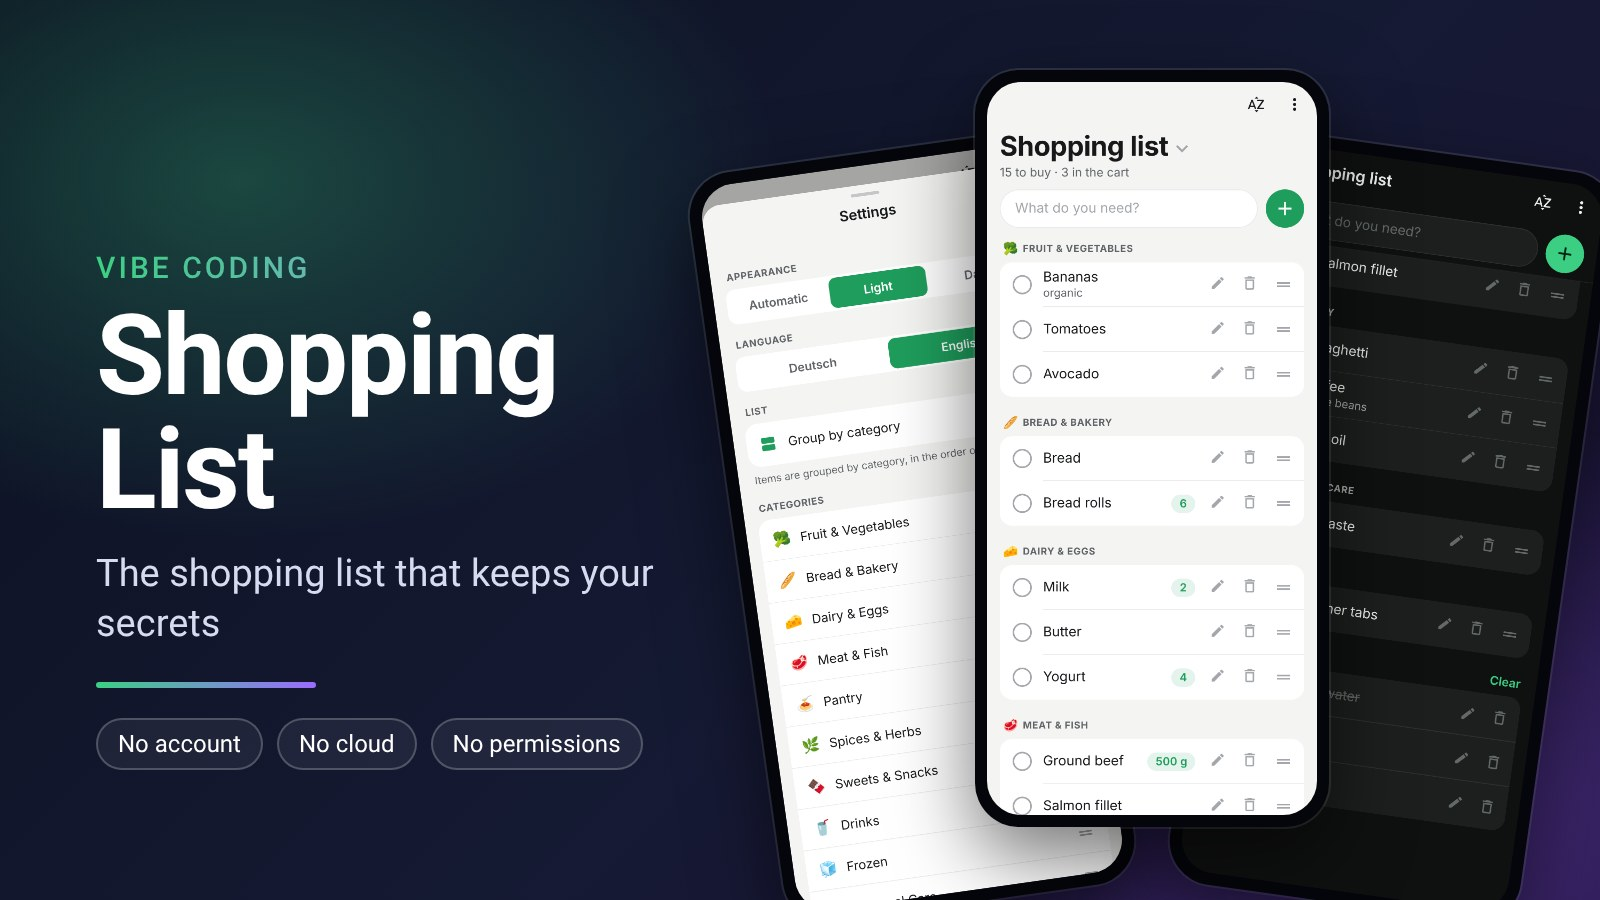
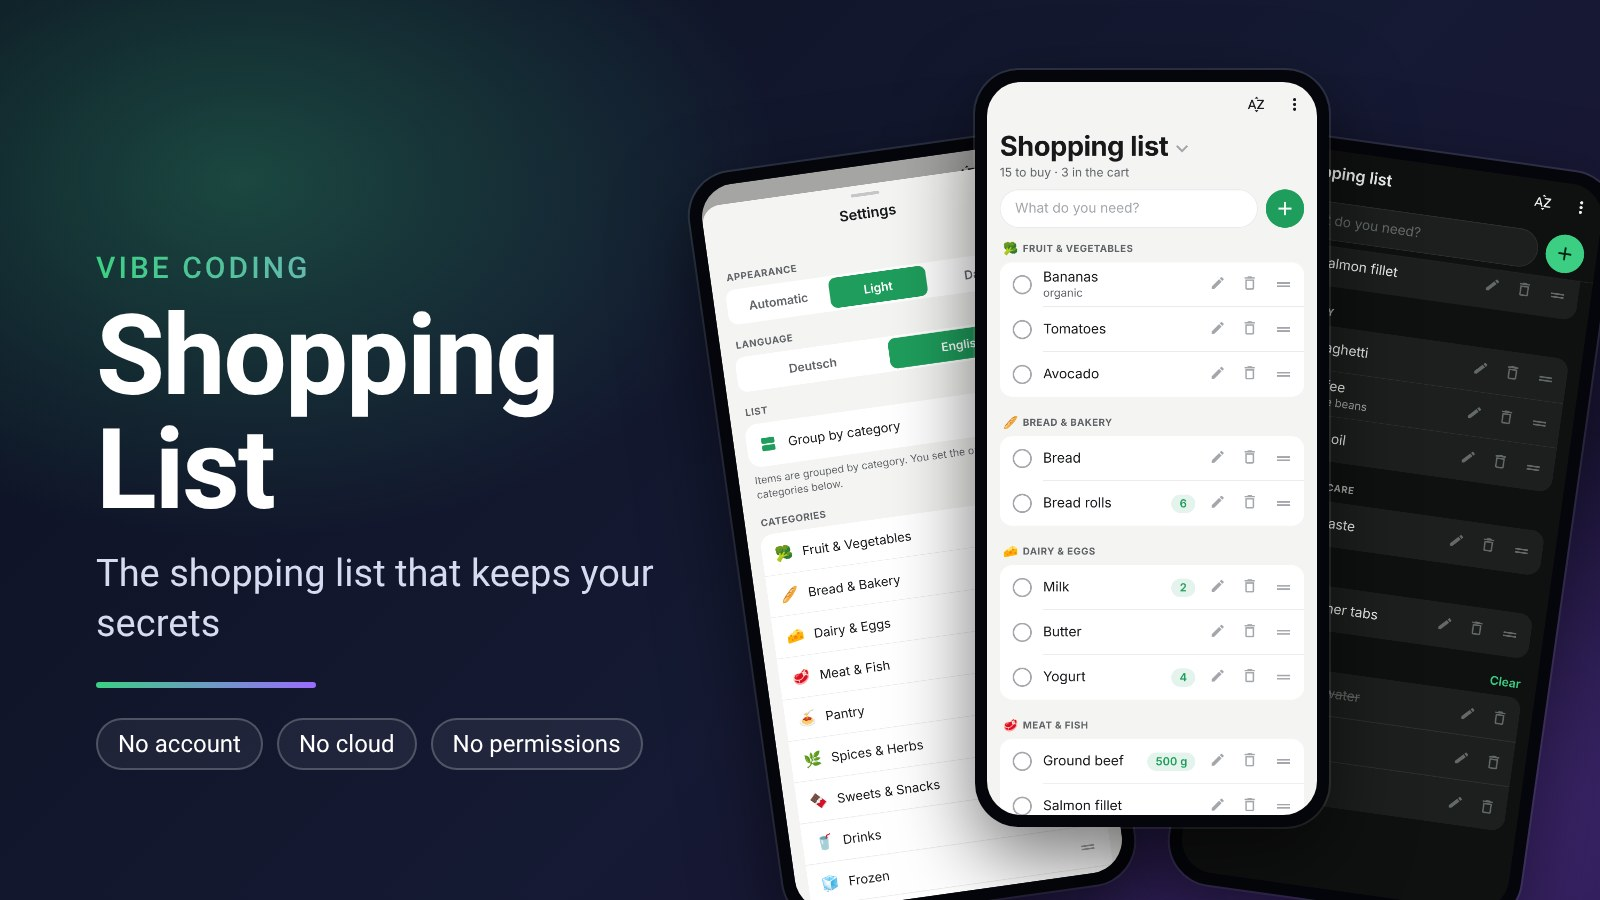
Release 1.3.3: clearer settings texts and new screenshots
- Category texts in the settings no longer refer to the store layout
- Footer now reads "© Aaron Kreis · aaron.de"
- Removed the backup explanation below "Delete all data"
- Updated banner and screenshots in the README

Changed region(s): [[0.4688, 0.5289, 0.5938, 0.9956], [0.5625, 0.9956, 0.5938, 1.0], [0.5625, 0.4978, 0.5938, 0.5289]]

diff --git a/src/ui/i18n.ts b/src/ui/i18n.ts
@@ -77,23 +77,21 @@ const de = {
   language: 'SPRACHE',
   list: 'LISTE',
   groupByCategory: 'Nach Kategorien ordnen',
-  groupedOn: 'Einträge stehen nach Kategorien in der Reihenfolge deines Ladens.',
+  groupedOn: 'Einträge stehen nach Kategorien geordnet. Die Reihenfolge der Kategorien legst du darunter fest.',
   groupedOff:
     'Einträge stehen untereinander, ohne Kategorien. Die Kategorien merkt sich die App trotzdem, beim Einschalten ist alles wieder einsortiert.',
   categories: 'KATEGORIEN',
   newCategory: 'Neue Kategorie',
-  categoriesFoot: 'Antippen zum Umbenennen oder Löschen. Am Griff ziehen, so wie du durch deinen Laden gehst.',
+  categoriesFoot: 'Antippen zum Umbenennen oder Löschen. Am Griff ziehen, um die Reihenfolge zu ändern.',
   reset: 'Zurücksetzen',
   data: 'DATEN',
   saveBackup: 'Sicherung speichern',
   importBackup: 'Sicherung einspielen',
   learned: 'Gelernte Vorschläge',
   deleteAllData: 'Alle Daten löschen',
-  backupFoot:
-    'Eine Sicherung ist eine Datei mit deinen Listen, Kategorien und allem Gelernten. Beim Einspielen wird zusammengeführt, nichts geht verloren.',
   appName: 'Shopping List',
   about: 'Kein Konto, keine Cloud.\nDeine Daten bleiben auf diesem Handy.',
-  madeBy: 'Gemacht von Aaron Kreis ·',
+  madeBy: '© Aaron Kreis ·',
   openSource: 'Open Source unter MIT Lizenz',
   backToSettings: 'Zurück zu den Einstellungen',
   editCategory: 'Kategorie bearbeiten',
@@ -207,20 +205,18 @@ const en: Strings = {
   language: 'LANGUAGE',
   list: 'LIST',
   groupByCategory: 'Group by category',
-  groupedOn: 'Items are grouped by category, in the order of your store.',
+  groupedOn: 'Items are grouped by category. You set the order of the categories below.',
   groupedOff:
     'Items are shown in one list, without categories. The app still remembers the categories, so everything is sorted again when you switch this back on.',
   categories: 'CATEGORIES',
   newCategory: 'New category',
-  categoriesFoot: 'Tap to rename or delete. Drag the handle to match the way you walk through your store.',
+  categoriesFoot: 'Tap to rename or delete. Drag the handle to change the order.',
   reset: 'Reset',
   data: 'DATA',
   saveBackup: 'Save backup',
   importBackup: 'Restore backup',
   learned: 'Learned suggestions',
   deleteAllData: 'Delete all data',
-  backupFoot:
-    'A backup is a file with your lists, categories and everything the app has learned. Restoring merges it with what is on the phone, nothing gets lost.',
   appName: 'Shopping List',
   about: 'No account, no cloud.\nYour data stays on this phone.',
   madeBy: 'Made by Aaron Kreis ·',

diff --git a/src/ui/SettingsSheet.tsx b/src/ui/SettingsSheet.tsx
@@ -225,9 +225,6 @@ export function SettingsSheet({ open, onClose, prefs, onPref, keepOnReset }: Pro
         <Row icon="auto-fix-high" label={t.learned} detail={String(learned)} chevron onPress={() => setView({ kind: 'learned' })} />
         <Row icon="delete-forever" label={t.deleteAllData} danger onPress={confirmReset} last />
       </View>
-      <Text style={[styles.foot, { color: c.text2 }]}>
-        {t.backupFoot}
-      </Text>
 
       <Text style={[styles.about, { color: c.text2 }]}>
         {t.appName} {Constants.expoConfig?.version ?? ''} · {t.about}
